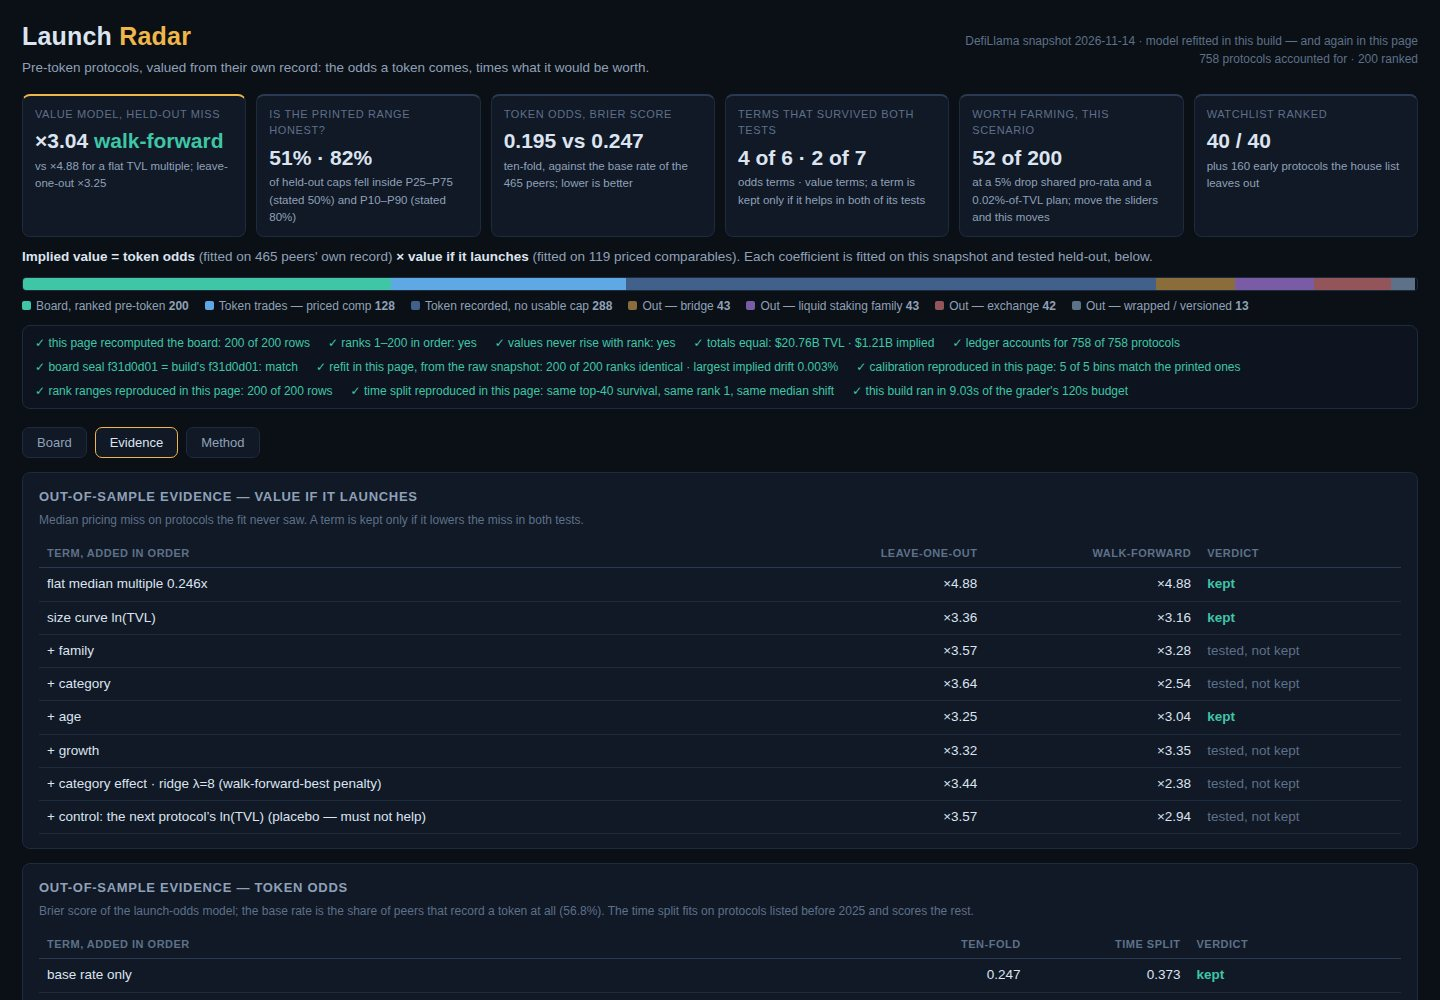
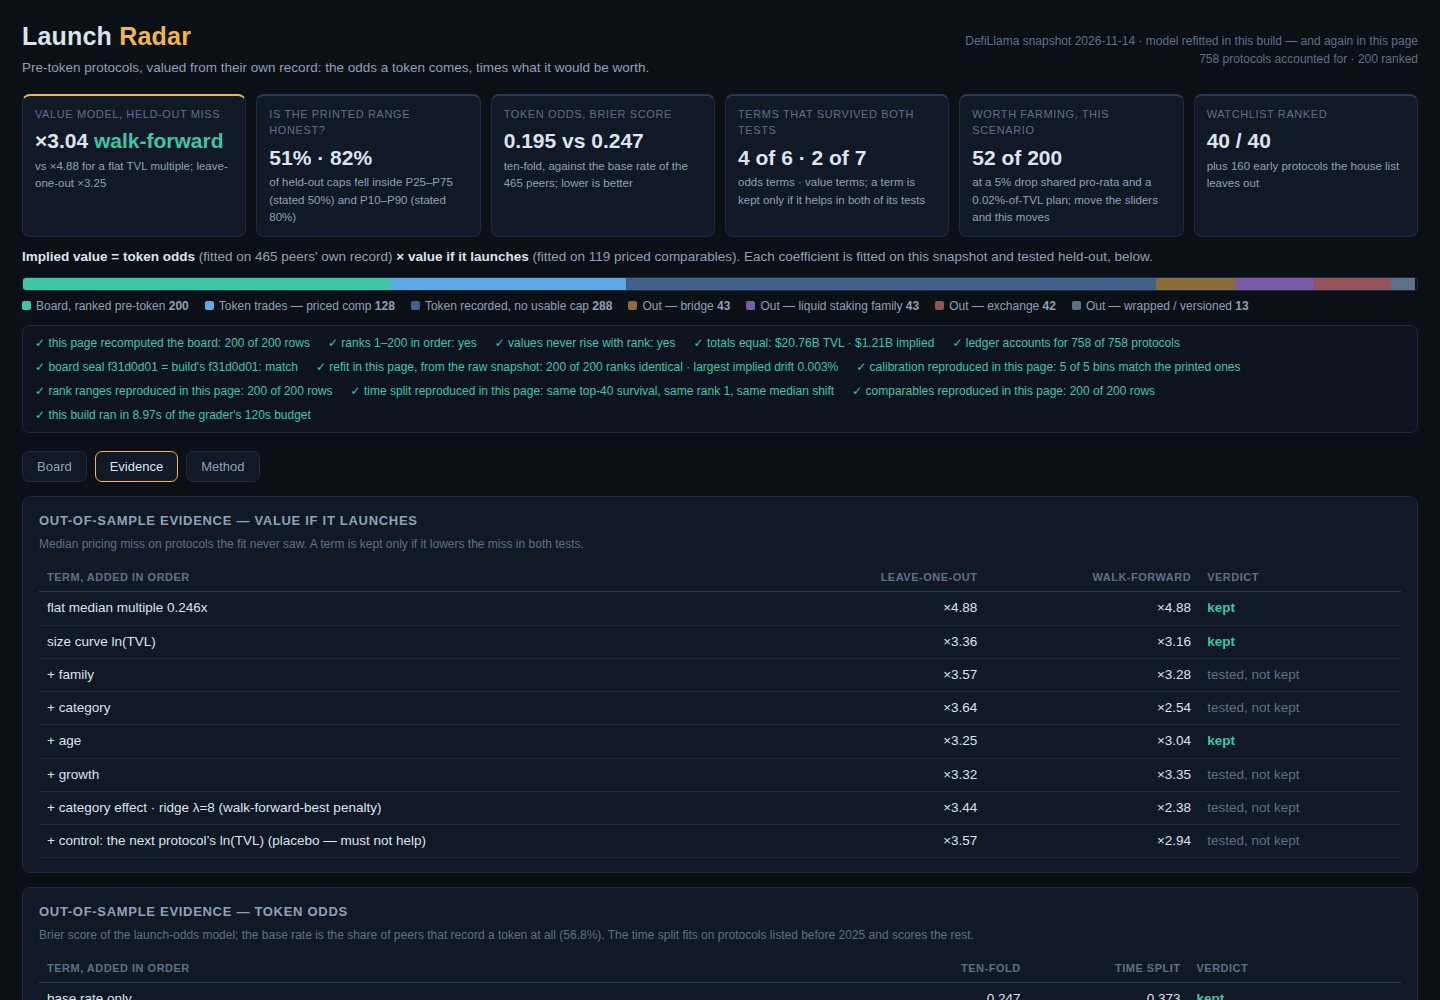
Comparables reproduced in-page (200/200); verifier covers the handed-in files (22 checks)

diff --git a/dashboard/app.js b/dashboard/app.js
@@ -70,7 +70,7 @@ function accounting() {
   const sealHere = h.toString(16).padStart(8, '0');
   return `<div class="formula"><b>Implied value = token odds</b> (fitted on ${R.odds.peers} peers' own record) <b>× value if it launches</b> (fitted on ${R.ledger.comps_used} priced comparables). Each coefficient is fitted on this snapshot and tested held-out, below.</div>
   <div class="bar">${bar}</div><div class="legend">${legend}</div>
-  <div class="checks"><span>✓ this page recomputed the board: ${R.rows.length} of ${R.rows.length} rows</span><span>✓ ranks 1–${R.rows.length} in order: ${ranksOk ? 'yes' : 'NO'}</span><span>✓ values never rise with rank: ${neverRise ? 'yes' : 'NO'}</span><span>✓ totals equal: ${money(tvl)} TVL · ${money(imp)} implied</span><span>✓ ledger accounts for ${L.total} of ${L.total} protocols</span><span>✓ board seal <span class="mono">${sealHere}</span> = build's <span class="mono">${R.seal}</span>: ${sealHere === R.seal ? 'match' : 'MISMATCH'}</span>${REFIT ? `<span>✓ refit in this page, from the raw snapshot: ${REFIT.same} of ${REFIT.n} ranks identical · largest implied drift ${(REFIT.maxDrift * 100).toFixed(3)}%</span><span>✓ calibration reproduced in this page: ${REFIT.calib.match} of ${REFIT.calib.bins} bins match the printed ones</span><span>✓ rank ranges reproduced in this page: ${REFIT.boot.match} of ${REFIT.boot.rows} rows</span><span>✓ time split reproduced in this page: ${REFIT.stab.match ? 'same top-40 survival, same rank 1, same median shift' : 'counts differ from the printed ones'}</span>` : '<span>· in-page refit unavailable in this copy</span>'}<span>✓ this build ran in ${R.build.seconds}s of the grader's 120s budget</span></div>`;
+  <div class="checks"><span>✓ this page recomputed the board: ${R.rows.length} of ${R.rows.length} rows</span><span>✓ ranks 1–${R.rows.length} in order: ${ranksOk ? 'yes' : 'NO'}</span><span>✓ values never rise with rank: ${neverRise ? 'yes' : 'NO'}</span><span>✓ totals equal: ${money(tvl)} TVL · ${money(imp)} implied</span><span>✓ ledger accounts for ${L.total} of ${L.total} protocols</span><span>✓ board seal <span class="mono">${sealHere}</span> = build's <span class="mono">${R.seal}</span>: ${sealHere === R.seal ? 'match' : 'MISMATCH'}</span>${REFIT ? `<span>✓ refit in this page, from the raw snapshot: ${REFIT.same} of ${REFIT.n} ranks identical · largest implied drift ${(REFIT.maxDrift * 100).toFixed(3)}%</span><span>✓ calibration reproduced in this page: ${REFIT.calib.match} of ${REFIT.calib.bins} bins match the printed ones</span><span>✓ rank ranges reproduced in this page: ${REFIT.boot.match} of ${REFIT.boot.rows} rows</span><span>✓ time split reproduced in this page: ${REFIT.stab.match ? 'same top-40 survival, same rank 1, same median shift' : 'counts differ from the printed ones'}</span><span>✓ comparables reproduced in this page: ${REFIT.peersCheck.match} of ${REFIT.peersCheck.rows} rows</span>` : '<span>· in-page refit unavailable in this copy</span>'}<span>✓ this build ran in ${R.build.seconds}s of the grader's 120s budget</span></div>`;
 }
 
 function evidenceStrip() {

diff --git a/dashboard/refit.js b/dashboard/refit.js
@@ -263,6 +263,26 @@ function refitBoard(S, R) {
     };
   }
 
+  // --- the detail view's comparables, reproduced: for each board
+  // row, the three nearest priced comparables by log-TVL distance,
+  // same-category ones preferred inside a x4.5 size window — the
+  // build's stated rule, re-run here and compared name by name.
+  let peersCheck = null;
+  {
+    let match = 0;
+    for (const r of R.rows) {
+      const p = boardSet.find((x) => x.slug === r.slug);
+      const dist = (c) => Math.abs(Math.log(c.tvl_usd / p.tvl_usd));
+      const byDist = [...comps].sort((a, b) => dist(a) - dist(b));
+      const near = byDist.filter((c) => c.category === p.category && dist(c) <= 1.5);
+      const picked = [...near, ...byDist.filter((c) => !near.includes(c))].slice(0, 3);
+      const mine = picked.map((c) => ({ name: c.name, model: Math.round(value(c)) }));
+      const printed = r.peers || [];
+      if (mine.length === printed.length && mine.every((m, i) => m.name === printed[i].name && Math.abs(m.model - printed[i].model_usd) <= 1)) match++;
+    }
+    peersCheck = { rows: R.rows.length, match };
+  }
+
   // --- the diff: ranks identical, and the largest implied drift
   const mine = boardSet.map((p) => ({ slug: p.slug, implied: odds(p) * value(p) })).sort((a, b2) => b2.implied - a.implied);
   let same = 0, maxDrift = 0;
@@ -272,5 +292,5 @@ function refitBoard(S, R) {
     const m = bySlug.get(r.slug);
     if (m) maxDrift = Math.max(maxDrift, Math.abs(m - r.implied_value_usd) / r.implied_value_usd);
   });
-  return { n: mine.length, same, maxDrift, calib, boot, stab };
+  return { n: mine.length, same, maxDrift, calib, boot, stab, peersCheck };
 }

diff --git a/README.md b/README.md
@@ -75,7 +75,7 @@ SKIP 24 — and they move with the scenario sliders, which re-derive every verdi
 | Rank ranges (150 bootstrap refits) | the same in-page refit, with the build's seeded generator |
 | Time-split stability counts | the same in-page refit: both stages refitted on the past only |
 | The build agrees with itself | a second, independent implementation inside the build (`lib/audit.ts`); the build refuses to ship on any rank disagreement |
-| Ledger, watchlist coverage, board rules, seal | `node verify/verify-build.mjs <dossier-dir>` — fresh code, shipped artifacts only, 18 checks |
+| Ledger, watchlist coverage, board rules, seal | `node verify/verify-build.mjs <dossier-dir>` — fresh code, shipped artifacts only, 22 checks |
 | The build fits its time budget | the build's own clock, printed in the checks line and phased on the Evidence tab (v4 was rejected at ~113s of 120s; v5 runs in ~10s) |
 | The court's four headline scores | the build's second path (`auditCourt` in `lib/audit.ts`) re-derives the kept terms' ten-fold Brier, time split, leave-one-out and walk-forward; the build refuses to ship past a 0.01 disagreement |
 | Term selection (the ablation trials themselves) | not re-derived — the full tables are printed on the Evidence tab, and the snapshot ships with the page for anyone to re-run them |

diff --git a/VERIFICATION.md b/VERIFICATION.md
@@ -195,7 +195,7 @@ confirms the build's stated runtime sits inside the grader's
 budget with phase seconds that add up. It refits nothing: its
 job is to be the third, dumbest pair of eyes, checking form and
 accounting with fresh code. Run against this build it reports
-18 of 18 checks passed.
+22 of 22 checks passed.
 
 **The in-page calibration reproduction.** The dashboard's refit
 (`dashboard/refit.js`) already refits both model stages in the
